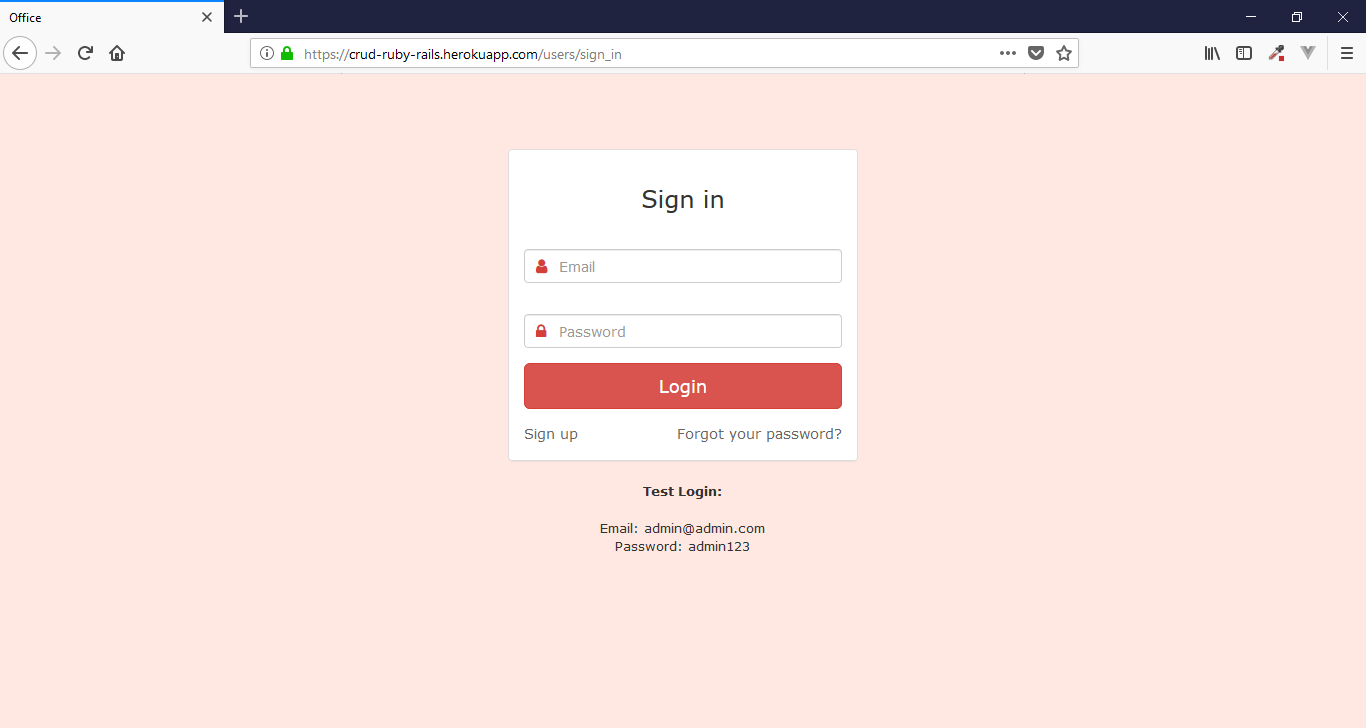
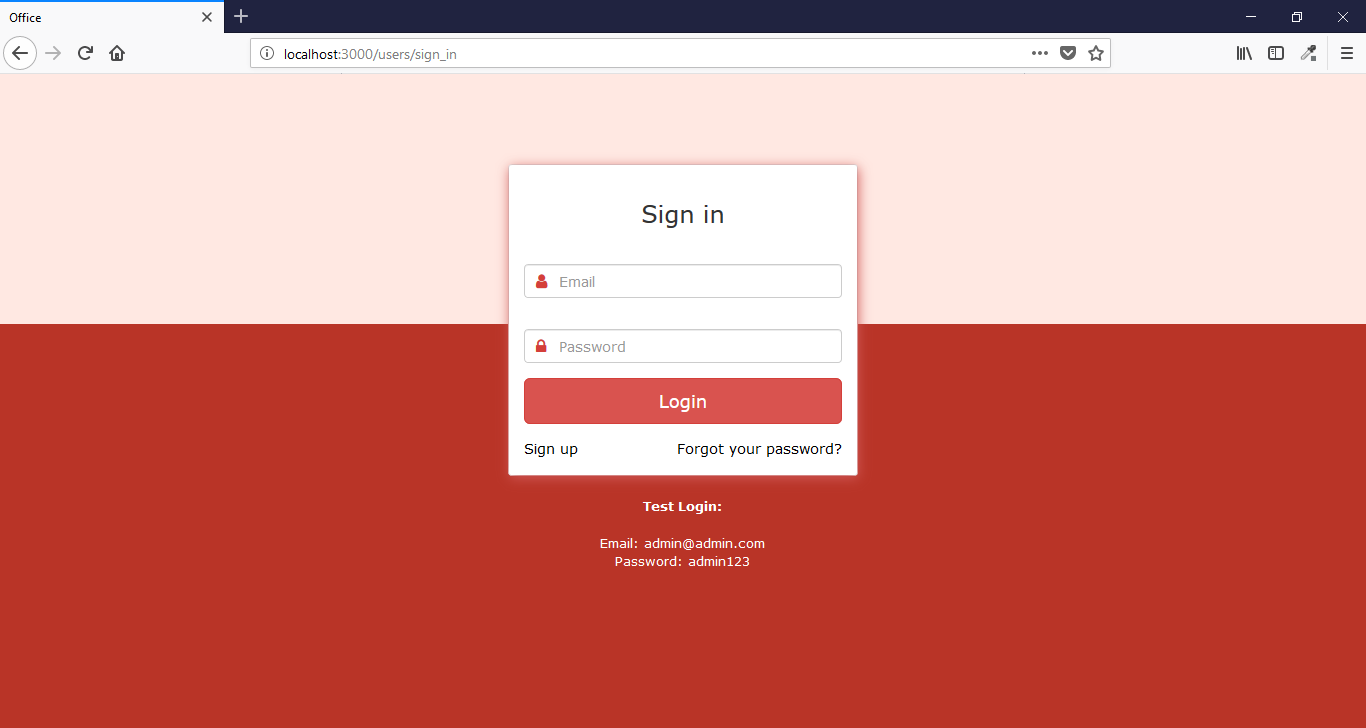
Update files

diff --git a/app/assets/stylesheets/scaffolds.scss b/app/assets/stylesheets/scaffolds.scss
@@ -210,17 +210,35 @@ td {
 }
 
 .page-login {
-  background-color: #ffe8e2 !important;
+  background-color: #b93427 !important;
+}
+
+.bg-login {
+  background-color: #ffe8e2;
+  height: 250px !important;
 }
 
 .container-login {
   max-width: 350px;
-  margin: 25px auto;
-  margin-top: 75px !important;
+  margin: 0px auto !important;
+  padding-top: 90px !important;
 }
 
 .container-form {
 	margin-left: -15px !important;
+}
+
+.box-login {
+  box-shadow: 1px 3px 12px #d15957;
+}
+
+input:focus {
+  box-shadow: 1px 1px 5px #e28c8c !important;
+  border: 1px solid #e28c8c !important;
+}
+
+.test-login {
+  color: #fff !important;
 }
 
 .alert {
